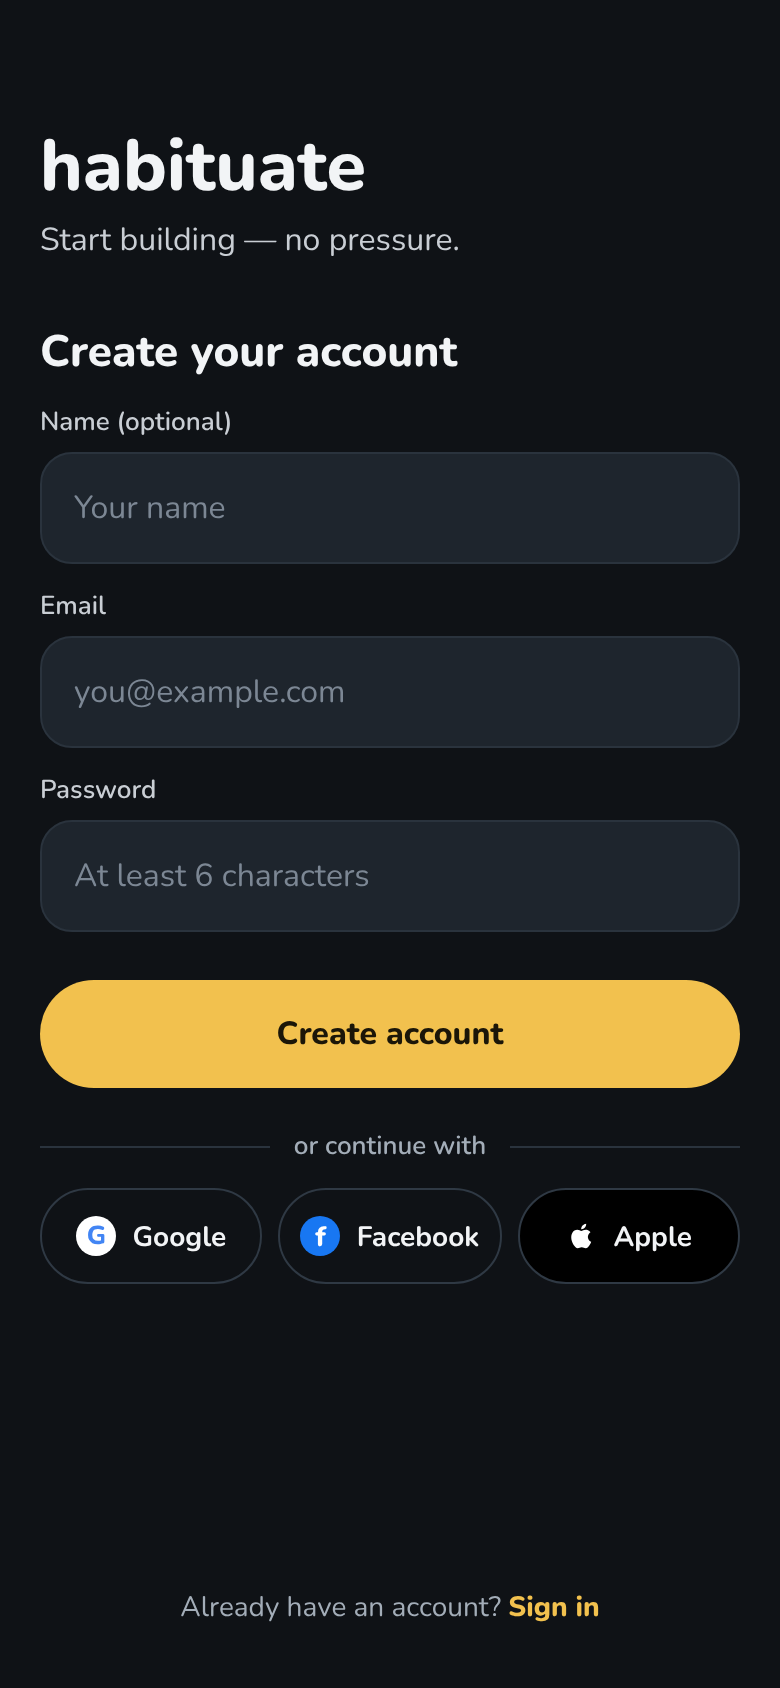
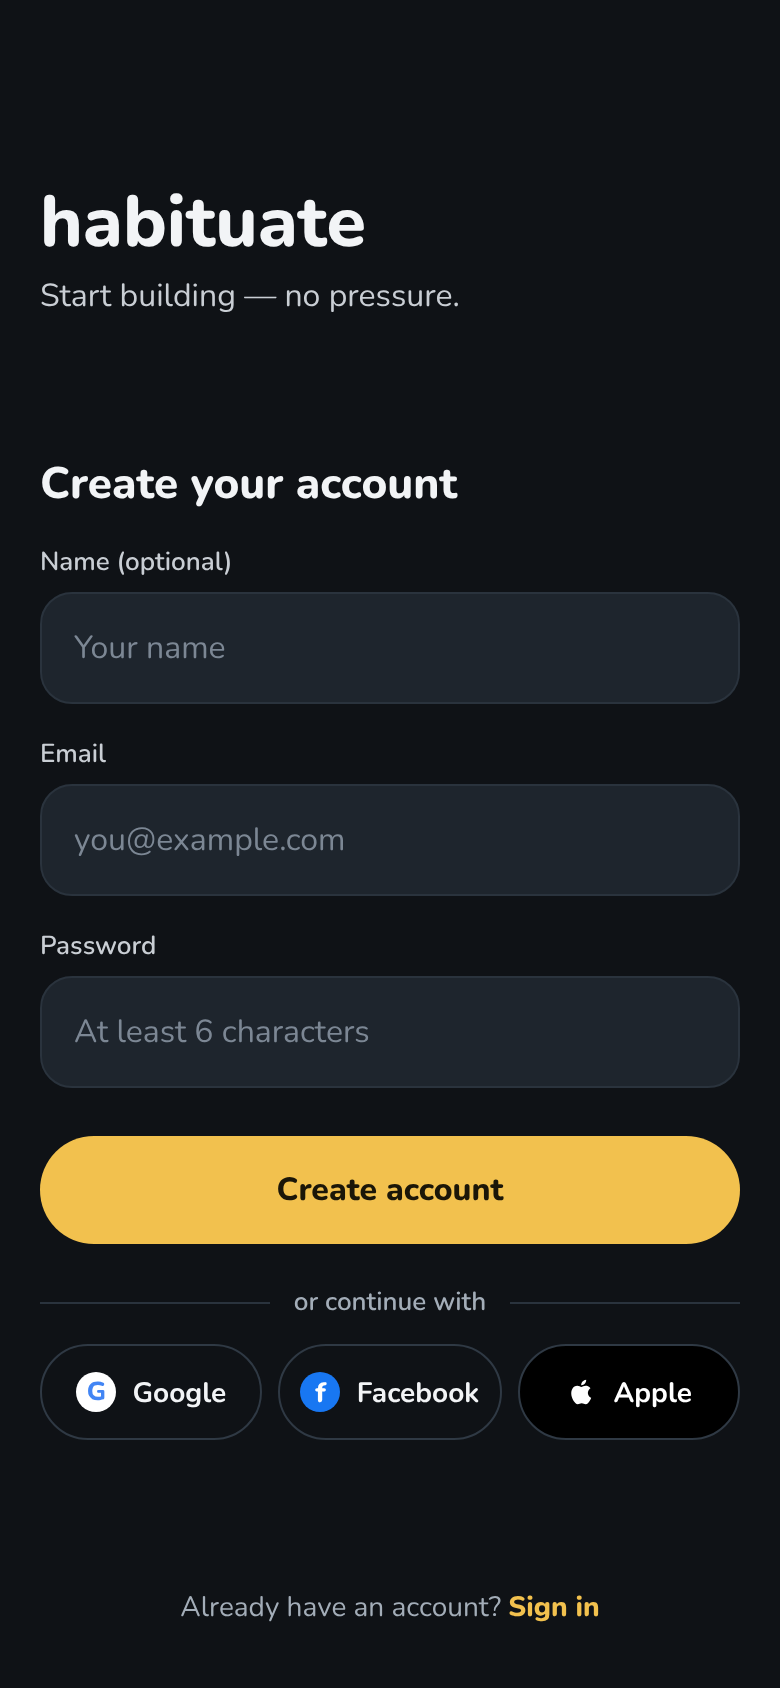
Login and create account: light mode versions
Claude-Session: https://claude.ai/code/session_01UvWD32uMFJU1E2B9jDYiLg

diff --git a/design/skyline/source/rd.js b/design/skyline/source/rd.js
@@ -134,20 +134,22 @@ if(S==='rd-sn'){document.body.style.width="820px";document.body.style.height="47
 // ---- auth (boards 92-93), design system: hero 36/800, message 16/400, sheet title 22/800, label 13/600, input 56, primary 54, secondary 48, meta 12-14
 if(S==='rd-li'||S==='rd-su'){const su=S==='rd-su';const HH=su?280:352;
  const T=su?[['#14B8A6',16,6,26],['#FF8A5C',11,6,100],['#F2C14E',20,8,174],['#A78BFA',14,5,248],['#22C55E',10,6,322]]:[['#14B8A6',26,8,10],['#FF8A5C',18,9,84],['#F2C14E',32,10,158],['#A78BFA',22,6,232],['#22C55E',14,8,306]];
- const fld=(l,ph)=>`<div style="font-size:13px;font-weight:600;line-height:18px;color:#C9CED4;margin-top:12px">${l}</div><div style="height:56px;border-radius:16px;background:#1E252D;border:1px solid #2A333D;display:flex;align-items:center;padding:0 16px;font-size:16px;color:#7C8794;margin-top:6px">${ph}</div>`;
+ const fld=(l,ph)=>`<div style="font-size:13px;font-weight:600;line-height:18px;color:#C9CED4;margin-top:16px">${l}</div><div style="height:56px;border-radius:16px;background:#1E252D;border:1px solid #2A333D;display:flex;align-items:center;padding:0 16px;font-size:16px;color:#7C8794;margin-top:6px">${ph}</div>`;
  const pill=(ic,t,st='')=>`<div style="flex:1;height:48px;border-radius:24px;border:1.5px solid #2F3944;display:flex;align-items:center;justify-content:center;gap:8px;font-size:14px;font-weight:700;${st}">${ic}${t}</div>`;
  const g=`<i style="width:20px;height:20px;border-radius:10px;background:#fff;color:#4285F4;font-size:13px;font-weight:800;display:flex;align-items:center;justify-content:center;font-style:normal">G</i>`,f=`<i style="width:20px;height:20px;border-radius:10px;background:#1877F2;color:#fff;font-size:14px;font-weight:800;display:flex;align-items:center;justify-content:center;font-style:normal">f</i>`,ap=`<svg width="16" height="16" viewBox="0 0 24 24" fill="#fff"><path d="M16.4 12.6c0-2.3 1.9-3.4 2-3.5-1.1-1.6-2.8-1.8-3.4-1.8-1.4-.1-2.8.9-3.5.9s-1.8-.8-3-.8c-1.5 0-3 .9-3.8 2.3-1.6 2.8-.4 6.9 1.2 9.2.8 1.1 1.7 2.3 2.9 2.3 1.2 0 1.6-.7 3-.7s1.8.7 3 .7c1.3 0 2.1-1.1 2.8-2.2.9-1.3 1.3-2.5 1.3-2.6-.1 0-2.5-1-2.5-3.8ZM14.2 5.7c.6-.8 1.1-1.8.9-2.9-.9 0-2 .6-2.7 1.4-.6.7-1.1 1.8-1 2.8 1 .1 2-.5 2.8-1.3Z"/></svg>`;
  const face=`<svg width="20" height="20" viewBox="0 0 24 24" fill="none" stroke="#F2C14E" stroke-width="2" stroke-linecap="round"><path d="M4 8V5a1 1 0 0 1 1-1h3M16 4h3a1 1 0 0 1 1 1v3M20 16v3a1 1 0 0 1-1 1h-3M8 20H5a1 1 0 0 1-1-1v-3M9 10v2M15 10v2M9 16c1.5 1 4.5 1 6 0"/></svg>`;
  const sky=skyArt('night',390,HH+30,HH).replace(/<circle[^>]*fill="#F4EFD8"[^>]*\/>/,'<circle cx="352" cy="44" r="14" fill="#F4EFD8"/>').replace(/<circle[^>]*fill="#171E45"[^>]*\/>/,'<circle cx="358" cy="39" r="12" fill="#171E45"/>');
  const TB=su?[['#14B8A6',34,12,6],['#FF8A5C',24,10,80],['#F2C14E',40,14,154],['#A78BFA',30,9,228],['#22C55E',20,10,302]]:[['#14B8A6',34,12,6],['#FF8A5C',24,10,80],['#F2C14E',40,14,154],['#A78BFA',30,9,228],['#22C55E',20,10,302]];
- R.innerHTML=`<div style="position:absolute;inset:0;overflow:hidden;background:#0F1216">
- <div style="position:absolute;left:20px;right:20px;top:64px"><div style="font-size:36px;line-height:40px;font-weight:800">habituate</div><div style="font-size:16px;line-height:24px;color:#C9CED4;margin-top:4px">${su?'Start building — no pressure.':'Build habits that stick — together.'}</div></div>
- <div style="position:absolute;top:150px;left:0;right:0;bottom:0;padding:0 20px 30px;display:flex;flex-direction:column">
+ const H=`<div style="position:absolute;inset:0;overflow:hidden;background:#0F1216;color:#F2F4F6">
+ <div style="position:absolute;left:20px;right:20px;top:92px"><div style="font-size:36px;line-height:40px;font-weight:800">habituate</div><div style="font-size:16px;line-height:24px;color:#C9CED4;margin-top:4px">${su?'Start building — no pressure.':'Build habits that stick — together.'}</div></div>
+ <div style="position:absolute;top:216px;left:0;right:0;bottom:0;padding:0 20px 30px;display:flex;flex-direction:column">
  <div style="font-size:22px;line-height:28px;font-weight:800;margin-top:12px">${su?'Create your account':'Welcome back'}</div>
  ${su?fld('Name (optional)','Your name')+fld('Email','you@example.com')+fld('Password','At least 6 characters'):fld('Username or email','yourname or you@example.com')+fld('Password','••••••••')}
  <div style="margin-top:24px;height:54px;border-radius:27px;background:#F2C14E;color:#1b1608;font-size:16px;font-weight:800;display:flex;align-items:center;justify-content:center">${su?'Create account':'Sign in'}</div>
  <div style="display:flex;align-items:center;gap:12px;margin-top:20px;color:#A3ADB8;font-size:13px;font-weight:600"><i style="flex:1;height:1px;background:#2A333D;display:block"></i>or continue with<i style="flex:1;height:1px;background:#2A333D;display:block"></i></div>
- <div style="display:flex;gap:8px;margin-top:12px">${pill(g,'Google')}${pill(f,'Facebook')}${pill(ap,'Apple','background:#000;border-color:#2F3944')}</div>
+ <div style="display:flex;gap:8px;margin-top:12px">${pill(g,'Google')}${pill(f,'Facebook')}${pill(ap,'Apple','background:#000;border-color:#2F3944;color:#fff')}</div>
  ${su?'':`<div style="height:48px;display:flex;align-items:center;justify-content:center;gap:8px;font-size:14px;font-weight:700;color:#F2C14E;margin-top:8px">${face}Sign in with Face ID</div>`}
- <div style="text-align:center;font-size:14px;line-height:20px;color:#A3ADB8;margin-top:auto;padding-top:12px">${su?'Already have an account? ':'New here? '}<b style="color:#F2C14E;font-weight:800">${su?'Sign in':'Create an account'}</b></div></div></div>`;}
+ <div style="text-align:center;font-size:14px;line-height:20px;color:#A3ADB8;margin-top:auto;padding-top:12px">${su?'Already have an account? ':'New here? '}<b style="color:#F2C14E;font-weight:800">${su?'Sign in':'Create an account'}</b></div></div></div>`;
+ const L={'#0F1216':'#EAF0F7','#1E252D':'#FFFFFF','#2A333D':'#CBD5E1','#2F3944':'#C5D0DC','#F2F4F6':'#15202B','#C9CED4':'#3A4A5A','#A3ADB8':'#5B6B7A','#7C8794':'#6B7B8B','#F2C14E':'#B45309','#1b1608':'#FFFFFF'};
+ R.innerHTML=Q.get('m')==='light'?H.replace(/#[0-9A-Fa-f]{6}/g,c=>L[c]||L[c.toUpperCase()]||c).replace('background:#B45309;color:#FFFFFF','background:#B45309;color:#FFFFFF'):H;}
 })();

diff --git a/design/skyline/source/shotpl.js b/design/skyline/source/shotpl.js
@@ -1,4 +1,4 @@
 const {chromium}=require('playwright');(async()=>{const b=await chromium.launch();
-for(const [n,q,w,h,o] of [['rd-pw','rd-pw',390,844,'pw-daily'],['rd-pw','rd-pw&v=weekly',390,844,'pw-weekly'],['rd-cp','rd-cp',820,700,'cp'],['rd-pw','rd-pw&v=browse',390,844,'pw-browse'],['rd-li','rd-li',390,844,'li'],['rd-su','rd-su',390,844,'su'],['pf-profile','pf-profile&v=plan',390,844,'pf-plan'],['rd-sn','rd-sn',820,470,'sn']]){const p=await b.newPage({viewport:{width:w,height:h},deviceScaleFactor:2});
+for(const [n,q,w,h,o] of [['rd-pw','rd-pw',390,844,'pw-daily'],['rd-pw','rd-pw&v=weekly',390,844,'pw-weekly'],['rd-cp','rd-cp',820,700,'cp'],['rd-pw','rd-pw&v=browse',390,844,'pw-browse'],['rd-li','rd-li',390,844,'li'],['rd-li','rd-li&m=light',390,844,'li-light'],['rd-su','rd-su&m=light',390,844,'su-light'],['rd-su','rd-su',390,844,'su'],['pf-profile','pf-profile&v=plan',390,844,'pf-plan'],['rd-sn','rd-sn',820,470,'sn']]){const p=await b.newPage({viewport:{width:w,height:h},deviceScaleFactor:2});
 await p.goto('file://'+__dirname+'/screens.html?s='+q,{waitUntil:'networkidle'}).catch(()=>{});await p.waitForTimeout(1200);await p.screenshot({path:__dirname+'/'+o+'.png'});}
 await b.close()})();

diff --git a/design/skyline/README.md b/design/skyline/README.md
@@ -153,3 +153,5 @@ Same fields, order and actions as today's LoginScreen and SignupScreen; only the
 **Login v2 (2026-11-25), full-screen layout (no sheet handle, footer pinned to the bottom):** redrawn to the design system after the owner said v1 was not good. Hero wordmark 36/800 and tagline 16/400 (message), sheet title 22/800, labels 13/600, inputs 56 radius 16, Sign in 54, three equal 48 pills for Google, Facebook and Apple under "or continue with", Face ID as a compact link, footer 14. Towers sit clear of the text. Awaiting the owner's approval.
 
 **Login v4 (2026-11-25), skyline removed at the owner's choice:** plain dark background, wordmark and tagline at the top, no hero block and no card; the form sits directly on the screen and the sign-up link is pinned to the bottom. Awaiting the owner's approval.
+
+**Light mode for 92 and 93 (2026-11-25):** `92-login-light.png` and `93-create-account-light.png`, using the light skyline tokens in theme.js (background #EAF0F7, white inputs, text #15202B, muted #5B6B7A, primary button #B45309 with white text). The Apple button stays black with white text in both modes. Contrast of the muted text and the primary button was not measured; check before build.
